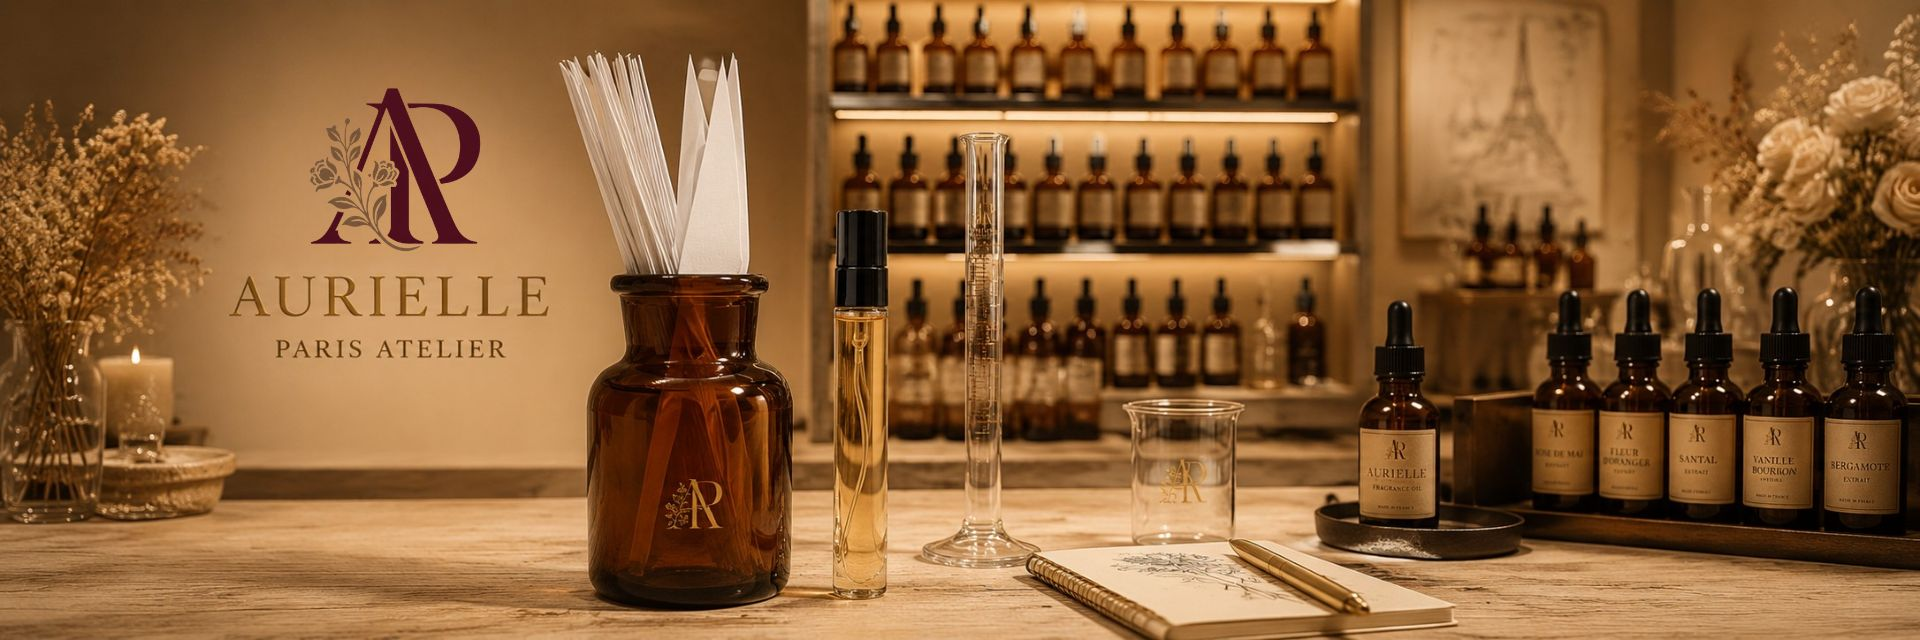
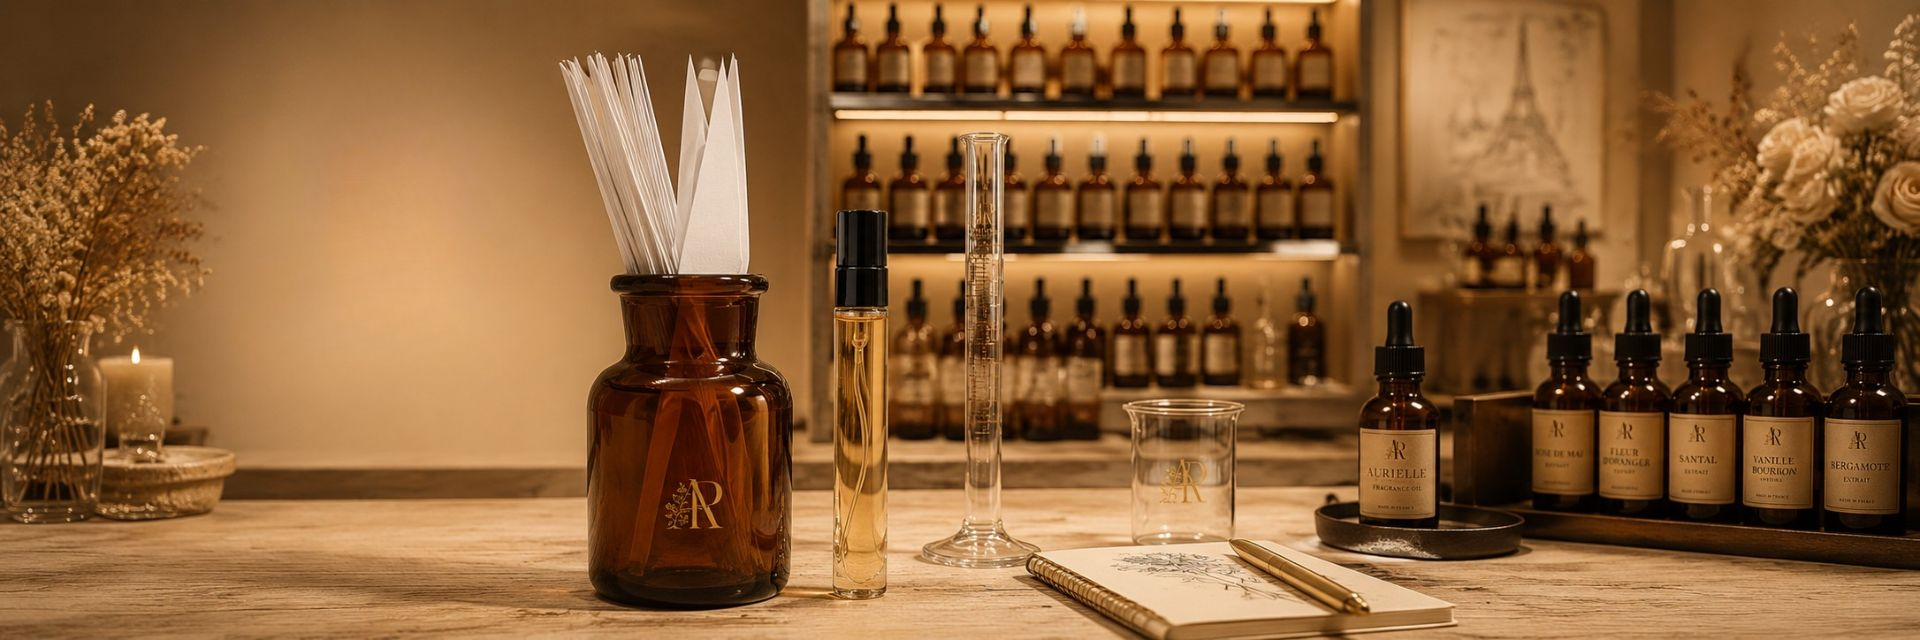
Fix Studio hero image bug, add real Studio photography + interactive galleries
The hero photo on /studio was invisible: StudioImageSlot hardcoded
"relative" on its wrapper, which beat the hero's "absolute inset-0"
override in Tailwind v4's fixed utility cascade order, collapsing the
wrapper to 0x0 inside the flex hero section. Fixed by dropping the
baked-in position class and requiring callers to supply their own.

Also applies the client's first batch of real Studio photography:
updated (brandless) header photos for Collection/Atelier Supply/Studio,
5 finish-tile macro shots, and 7 + 5 real per-item photos for the
Luxury Packaging & Branding and Personal Gifts groupings. Item chips
in those groupings now swap the displayed photo on click via a new
StudioGroupingGallery client component, replacing the old
navigate-straight-to-quote StudioChipLink; "Request a Quote" still
carries the selected item through to prefill the quote form.

Changed region(s): [[0.125, 0.125, 0.2812, 0.5], [0.125, 0.5312, 0.2812, 0.5625]]

diff --git a/src/app/studio/page.tsx b/src/app/studio/page.tsx
@@ -4,7 +4,7 @@ import { Reveal } from "@/components/reveal";
 import { ButtonLink } from "@/components/button-link";
 import { StudioQuoteForm } from "@/components/studio-quote-form";
 import { StudioImageSlot } from "@/components/studio-image-slot";
-import { StudioChipLink } from "@/components/studio-chip-link";
+import { StudioGroupingGallery } from "@/components/studio-grouping-gallery";
 import { StudioStepIcon, type StudioStepIconName } from "@/components/studio-step-icon";
 import { FinishTile } from "@/components/finish-tile";
 import { StickyQuoteButton } from "@/components/sticky-quote-button";
@@ -68,7 +68,7 @@ export default function CustomisationStudioPage() {
           <div className="mt-8 grid grid-cols-2 gap-4 sm:grid-cols-5">
             {STUDIO_FINISHES.map((finish, i) => (
               <Reveal key={finish.name} delayMs={i * 60}>
-                <FinishTile name={finish.name} description={finish.description} />
+                <FinishTile name={finish.name} description={finish.description} image={finish.image} />
               </Reveal>
             ))}
           </div>
@@ -77,59 +77,14 @@ export default function CustomisationStudioPage() {
 
       {/* 3-6. FOUR GROUPINGS, alternating image side */}
       <div className="space-y-0">
-        {STUDIO_GROUPINGS.map((grouping, i) => {
-          const imageFirst = i % 2 === 0;
-          return (
-            <section
-              key={grouping.slug}
-              className={i % 2 === 0 ? "bg-beige px-6 py-20 lg:px-10" : "px-6 py-20 lg:px-10"}
-            >
-              <div
-                className={`mx-auto grid max-w-6xl gap-10 lg:grid-cols-2 lg:items-center ${
-                  imageFirst ? "" : "lg:[&>*:first-child]:order-2"
-                }`}
-              >
-                <Reveal>
-                  <StudioImageSlot
-                    src={grouping.image}
-                    alt={grouping.image ? `${grouping.name} sample work` : ""}
-                    slotName={`grouping-image: ${grouping.name}`}
-                    canvas="640x520"
-                    aspectRatio="11:9"
-                    sizes="(min-width: 1024px) 50vw, 100vw"
-                    className="relative aspect-[11/9] w-full"
-                  />
-                </Reveal>
-                <Reveal delayMs={100}>
-                  <h2 className="font-serif text-2xl text-ink">{grouping.name}</h2>
-                  <p className="mt-3 max-w-md text-sm text-ink/60">{grouping.intro}</p>
-                  <div className="mt-6 flex flex-wrap gap-2">
-                    {grouping.items.map((item) => (
-                      <StudioChipLink
-                        key={item}
-                        href={`/studio?grouping=${encodeURIComponent(grouping.name)}&item=${encodeURIComponent(item)}#quote`}
-                        grouping={grouping.name}
-                        item={item}
-                        className="rounded-sm border border-taupe/30 bg-ivory px-3 py-1.5 text-xs text-ink/70 transition-colors hover:border-burgundy hover:text-burgundy"
-                      >
-                        {item}
-                      </StudioChipLink>
-                    ))}
-                  </div>
-                  <div className="mt-6">
-                    <StudioChipLink
-                      href={`/studio?grouping=${encodeURIComponent(grouping.name)}#quote`}
-                      grouping={grouping.name}
-                      className="inline-block border border-burgundy px-6 py-2.5 text-xs uppercase tracking-[0.2em] text-burgundy transition-colors hover:bg-burgundy hover:text-ivory"
-                    >
-                      Request a Quote
-                    </StudioChipLink>
-                  </div>
-                </Reveal>
-              </div>
-            </section>
-          );
-        })}
+        {STUDIO_GROUPINGS.map((grouping, i) => (
+          <section
+            key={grouping.slug}
+            className={i % 2 === 0 ? "bg-beige px-6 py-20 lg:px-10" : "px-6 py-20 lg:px-10"}
+          >
+            <StudioGroupingGallery grouping={grouping} imageFirst={i % 2 === 0} />
+          </section>
+        ))}
       </div>
 
       {/* 7. HOW IT WORKS */}

diff --git a/src/components/studio-grouping-gallery.tsx b/src/components/studio-grouping-gallery.tsx
@@ -1,0 +1,85 @@
+"use client";
+
+import { useState } from "react";
+import Link from "next/link";
+import { Reveal } from "./reveal";
+import { StudioImageSlot } from "./studio-image-slot";
+import { track } from "@/lib/analytics";
+import type { StudioGrouping } from "@/lib/data/studio-groupings";
+
+// Clicking an item swaps the photo shown beside it (like a product
+// gallery) instead of navigating away immediately -- items without
+// their own photo yet just fall back to the grouping's default image.
+// "Request a Quote" carries whichever item is currently selected, so
+// the quote form's prefill (see StudioQuoteForm) still works.
+export function StudioGroupingGallery({
+  grouping,
+  imageFirst,
+}: {
+  grouping: StudioGrouping;
+  imageFirst: boolean;
+}) {
+  const itemImages = grouping.itemImages ?? {};
+  const firstWithImage = grouping.items.find((item) => itemImages[item]);
+  const [selected, setSelected] = useState<string | null>(firstWithImage ?? null);
+
+  const src = (selected && itemImages[selected]) || grouping.image;
+  const quoteHref = `/studio?grouping=${encodeURIComponent(grouping.name)}${
+    selected ? `&item=${encodeURIComponent(selected)}` : ""
+  }#quote`;
+
+  function selectItem(item: string) {
+    setSelected(item);
+    track("Studio Category Clicked", { grouping: grouping.name, item });
+  }
+
+  return (
+    <div
+      className={`mx-auto grid max-w-6xl gap-10 lg:grid-cols-2 lg:items-center ${
+        imageFirst ? "" : "lg:[&>*:first-child]:order-2"
+      }`}
+    >
+      <Reveal>
+        <StudioImageSlot
+          src={src}
+          alt={selected ? `${selected} sample work` : `${grouping.name} sample work`}
+          slotName={`grouping-image: ${grouping.name}`}
+          canvas="640x520"
+          aspectRatio="11:9"
+          sizes="(min-width: 1024px) 50vw, 100vw"
+          className="relative aspect-[11/9] w-full"
+        />
+      </Reveal>
+      <Reveal delayMs={100}>
+        <h2 className="font-serif text-2xl text-ink">{grouping.name}</h2>
+        <p className="mt-3 max-w-md text-sm text-ink/60">{grouping.intro}</p>
+        <div className="mt-6 flex flex-wrap gap-2">
+          {grouping.items.map((item) => (
+            <button
+              key={item}
+              type="button"
+              onClick={() => selectItem(item)}
+              aria-pressed={selected === item}
+              className={`rounded-sm border px-3 py-1.5 text-xs transition-colors ${
+                selected === item
+                  ? "border-burgundy bg-burgundy text-ivory"
+                  : "border-taupe/30 bg-ivory text-ink/70 hover:border-burgundy hover:text-burgundy"
+              }`}
+            >
+              {item}
+            </button>
+          ))}
+        </div>
+        <div className="mt-6">
+          <Link
+            href={quoteHref}
+            onClick={() => track("Studio Category Clicked", { grouping: grouping.name, item: selected ?? "" })}
+            className="inline-block border border-burgundy px-6 py-2.5 text-xs uppercase tracking-[0.2em] text-burgundy transition-colors hover:bg-burgundy hover:text-ivory"
+          >
+            Request a Quote
+          </Link>
+        </div>
+      </Reveal>
+    </div>
+  );
+}

diff --git a/src/lib/data/studio-groupings.ts b/src/lib/data/studio-groupings.ts
@@ -17,9 +17,14 @@ export type StudioGrouping = {
   items: string[];
   // Real print-work photo path, or undefined when none exists yet --
   // the page renders the spec's labeled placeholder block instead of
-  // a fabricated stock photo (launch-integrity rule).
+  // a fabricated stock photo (launch-integrity rule). Shown by default
+  // and whenever the selected item below has no photo of its own.
   image?: string;
   imageBrief: string;
+  // Per-item real photos, keyed by the exact string in `items`. Not
+  // every item needs an entry -- StudioGroupingGallery falls back to
+  // `image` (or a placeholder) for items without one yet.
+  itemImages?: Record<string, string>;
 };
 
 export const STUDIO_GROUPINGS: StudioGrouping[] = [
@@ -29,7 +34,7 @@ export const STUDIO_GROUPINGS: StudioGrouping[] = [
     spotlight: true,
     intro:
       "Perfume and beauty packaging, metal and mini labels, brand plates, acrylic awards and crystal UV stickers -- finished with the same craftsmanship as the Aurielle Collection itself.",
-    image: "/images/atelier/custom-label.jpg",
+    image: "/images/studio/luxury-packaging-branding/perfume-bottle-printing.jpg",
     imageBrief: "Perfume packaging, metal labels",
     items: [
       "Perfume Bottle Printing",
@@ -40,6 +45,15 @@ export const STUDIO_GROUPINGS: StudioGrouping[] = [
       "Acrylic Awards",
       "Crystal / UV Luxury Stickers",
     ],
+    itemImages: {
+      "Perfume Bottle Printing": "/images/studio/luxury-packaging-branding/perfume-bottle-printing.jpg",
+      "Cosmetic Packaging": "/images/studio/luxury-packaging-branding/cosmetic-packaging.jpg",
+      "Metal Labels": "/images/studio/luxury-packaging-branding/metal-labels.jpg",
+      "Mini Labels": "/images/studio/luxury-packaging-branding/mini-labels.jpg",
+      "Brand Plates": "/images/studio/luxury-packaging-branding/brand-plates.jpg",
+      "Acrylic Awards": "/images/studio/luxury-packaging-branding/acrylic-awards.jpg",
+      "Crystal / UV Luxury Stickers": "/images/studio/luxury-packaging-branding/crystal-uv-sticker.jpg",
+    },
   },
   {
     slug: "personal-gifts",
@@ -47,6 +61,7 @@ export const STUDIO_GROUPINGS: StudioGrouping[] = [
     spotlight: false,
     intro:
       "Custom printing for the people and moments in your life -- phone cases, home decor, wedding keepsakes, souvenirs and fashion accessories.",
+    image: "/images/studio/personal-gifts/phone-cases.jpg",
     imageBrief: "Phone case or keepsake",
     items: [
       "Phone & Electronics Cases",
@@ -55,6 +70,13 @@ export const STUDIO_GROUPINGS: StudioGrouping[] = [
       "Souvenirs",
       "Fashion Accessories",
     ],
+    itemImages: {
+      "Phone & Electronics Cases": "/images/studio/personal-gifts/phone-cases.jpg",
+      "Home Decoration": "/images/studio/personal-gifts/home-decoration.jpg",
+      "Wedding & Event Keepsakes": "/images/studio/personal-gifts/wedding-event-keepsakes.jpg",
+      "Souvenirs": "/images/studio/personal-gifts/souvenirs.jpg",
+      "Fashion Accessories": "/images/studio/personal-gifts/fashion-accessories.jpg",
+    },
   },
   {
     slug: "business-solutions",

diff --git a/src/lib/data/studio-finishes.ts b/src/lib/data/studio-finishes.ts
@@ -1,16 +1,35 @@
 // The Studio's finishes strip: what the printer can do, shown as
-// representative material samples (not client work). No macro shots
-// exist yet, so each tile renders as a labeled placeholder until real
-// photos come in (see docs/spec/AURIELLE_STUDIO_PAGE_SPEC.md §13).
+// representative material samples (not client work).
 export type StudioFinish = {
   name: string;
   description: string;
+  image?: string;
 };
 
 export const STUDIO_FINISHES: StudioFinish[] = [
-  { name: "Gold Foil", description: "Warm metallic gold accents and detailing." },
-  { name: "Metallic", description: "Reflective silver, chrome and brushed-metal finishes." },
-  { name: "Acrylic", description: "Clear or tinted acrylic with a polished edge." },
-  { name: "Crystal / 3D", description: "Raised, dimensional UV printing with depth." },
-  { name: "Full Colour", description: "Vivid, photo-quality full-colour prints." },
+  {
+    name: "Gold Foil",
+    description: "Warm metallic gold accents and detailing.",
+    image: "/images/studio/finishes/gold-foil.jpg",
+  },
+  {
+    name: "Metallic",
+    description: "Reflective silver, chrome and brushed-metal finishes.",
+    image: "/images/studio/finishes/metallic.jpg",
+  },
+  {
+    name: "Acrylic",
+    description: "Clear or tinted acrylic with a polished edge.",
+    image: "/images/studio/finishes/acrylic.jpg",
+  },
+  {
+    name: "Crystal / 3D",
+    description: "Raised, dimensional UV printing with depth.",
+    image: "/images/studio/finishes/crystal-3d.jpg",
+  },
+  {
+    name: "Full Colour",
+    description: "Vivid, photo-quality full-colour prints.",
+    image: "/images/studio/finishes/full-colour.jpg",
+  },
 ];

diff --git a/src/components/finish-tile.tsx b/src/components/finish-tile.tsx
@@ -4,10 +4,16 @@ import { useState } from "react";
 import { StudioImageSlot } from "./studio-image-slot";
 
 // Hover reveals the description on desktop (CSS group-hover); tap
-// toggles it on touch devices, since hover doesn't fire reliably
-// there. No image asset exists yet for any finish, so each tile is
-// the spec's labeled placeholder block until real macro shots come in.
-export function FinishTile({ name, description }: { name: string; description: string }) {
+// toggles it on touch devices, since hover doesn't fire reliably there.
+export function FinishTile({
+  name,
+  description,
+  image,
+}: {
+  name: string;
+  description: string;
+  image?: string;
+}) {
   const [tapped, setTapped] = useState(false);
 
   return (
@@ -17,6 +23,7 @@ export function FinishTile({ name, description }: { name: string; description: s
       className="group relative aspect-square w-full overflow-hidden border border-taupe/30 text-left"
     >
       <StudioImageSlot
+        src={image}
         slotName={`Finish: ${name}`}
         canvas="240x240"
         aspectRatio="1:1"

diff --git a/src/components/studio-image-slot.tsx b/src/components/studio-image-slot.tsx
@@ -26,8 +26,14 @@ export function StudioImageSlot({
   className?: string;
 }) {
   if (src) {
+    // No baked-in "relative" here: callers must supply their own
+    // position utility (e.g. "absolute inset-0" for a full-bleed hero,
+    // "relative ..." elsewhere). Tailwind v4 emits .absolute before
+    // .relative in its generated stylesheet, so a hardcoded "relative"
+    // here would always beat a caller's "absolute" at equal
+    // specificity, silently collapsing the wrapper to 0x0.
     return (
-      <div className={`relative overflow-hidden ${className}`}>
+      <div className={`overflow-hidden ${className}`}>
         <Image src={src} alt={alt} fill priority={priority} sizes={sizes} className="object-cover" />
       </div>
     );

diff --git a/README.md b/README.md
@@ -234,24 +234,26 @@ Real photography is wired in under `public/images/`:
   into a full visual page: hero, a finishes strip (`FinishTile`, hover/
   tap reveal), then the 4 curated groupings
   (`src/lib/data/studio-groupings.ts`) -- Luxury Packaging & Branding,
-  Personal Gifts, Business Solutions, Industrial Printing -- each with
-  an alternating-side image and clickable item chips
-  (`StudioChipLink`) that prefill the quote form's grouping/item and
-  scroll to it, a "How It Works" stepper (`StudioStepIcon`, line-art
-  only, no photos needed), then the quote form and a sticky "Request a
+  Personal Gifts, Business Solutions, Industrial Printing -- each
+  rendered by `StudioGroupingGallery`: an alternating-side image that
+  swaps to a per-item real photo (`itemImages`) when you click an item
+  chip, like a product gallery, and a "Request a Quote" button that
+  carries whichever item is currently selected to prefill the quote
+  form. A "How It Works" stepper (`StudioStepIcon`, line-art only, no
+  photos needed) follows, then the quote form and a sticky "Request a
   Quote" button on scroll. Editing the groupings/items/finishes means
   editing those data files and redeploying -- no CMS, per spec.
-  **Recent Work (a real-photo gallery) is intentionally omitted**:
-  only one real print-work photo exists
-  (`/images/atelier/custom-label.jpg`, reused for the hero and the
-  Luxury grouping), not enough for an honest gallery -- the spec is
-  explicit that this section stays empty rather than filled with
-  fabricated samples. Every other image slot without a real photo yet
-  (the other 3 groupings' images, all 5 finish tiles) renders as a
-  labeled placeholder block (`StudioImageSlot`) naming the slot,
-  canvas size and aspect ratio, per the spec's own placeholder
-  convention, so what's still needed from the client is obvious at a
-  glance rather than silently missing.
+  **Recent Work (a standalone real-photo gallery) is intentionally
+  omitted** even though real photos now exist for two groupings (Luxury
+  Packaging & Branding, Personal Gifts): the per-item gallery above
+  already shows that work in context, and Business Solutions /
+  Industrial Printing don't have per-item photos yet, so a separate
+  gallery would be uneven. Image slots without a real photo yet (the
+  Business Solutions grouping image and its items) render as a labeled
+  placeholder block (`StudioImageSlot`) naming the slot, canvas size
+  and aspect ratio, per the spec's own placeholder convention, so
+  what's still needed from the client is obvious at a glance rather
+  than silently missing.
 - `src/lib/analytics.ts`: a `track()` stub (no provider wired up yet,
   same as the rest of the site -- see "What's scaffolded vs. not yet
   built"). Fires `Studio Category Clicked` on chip click and `Quote
